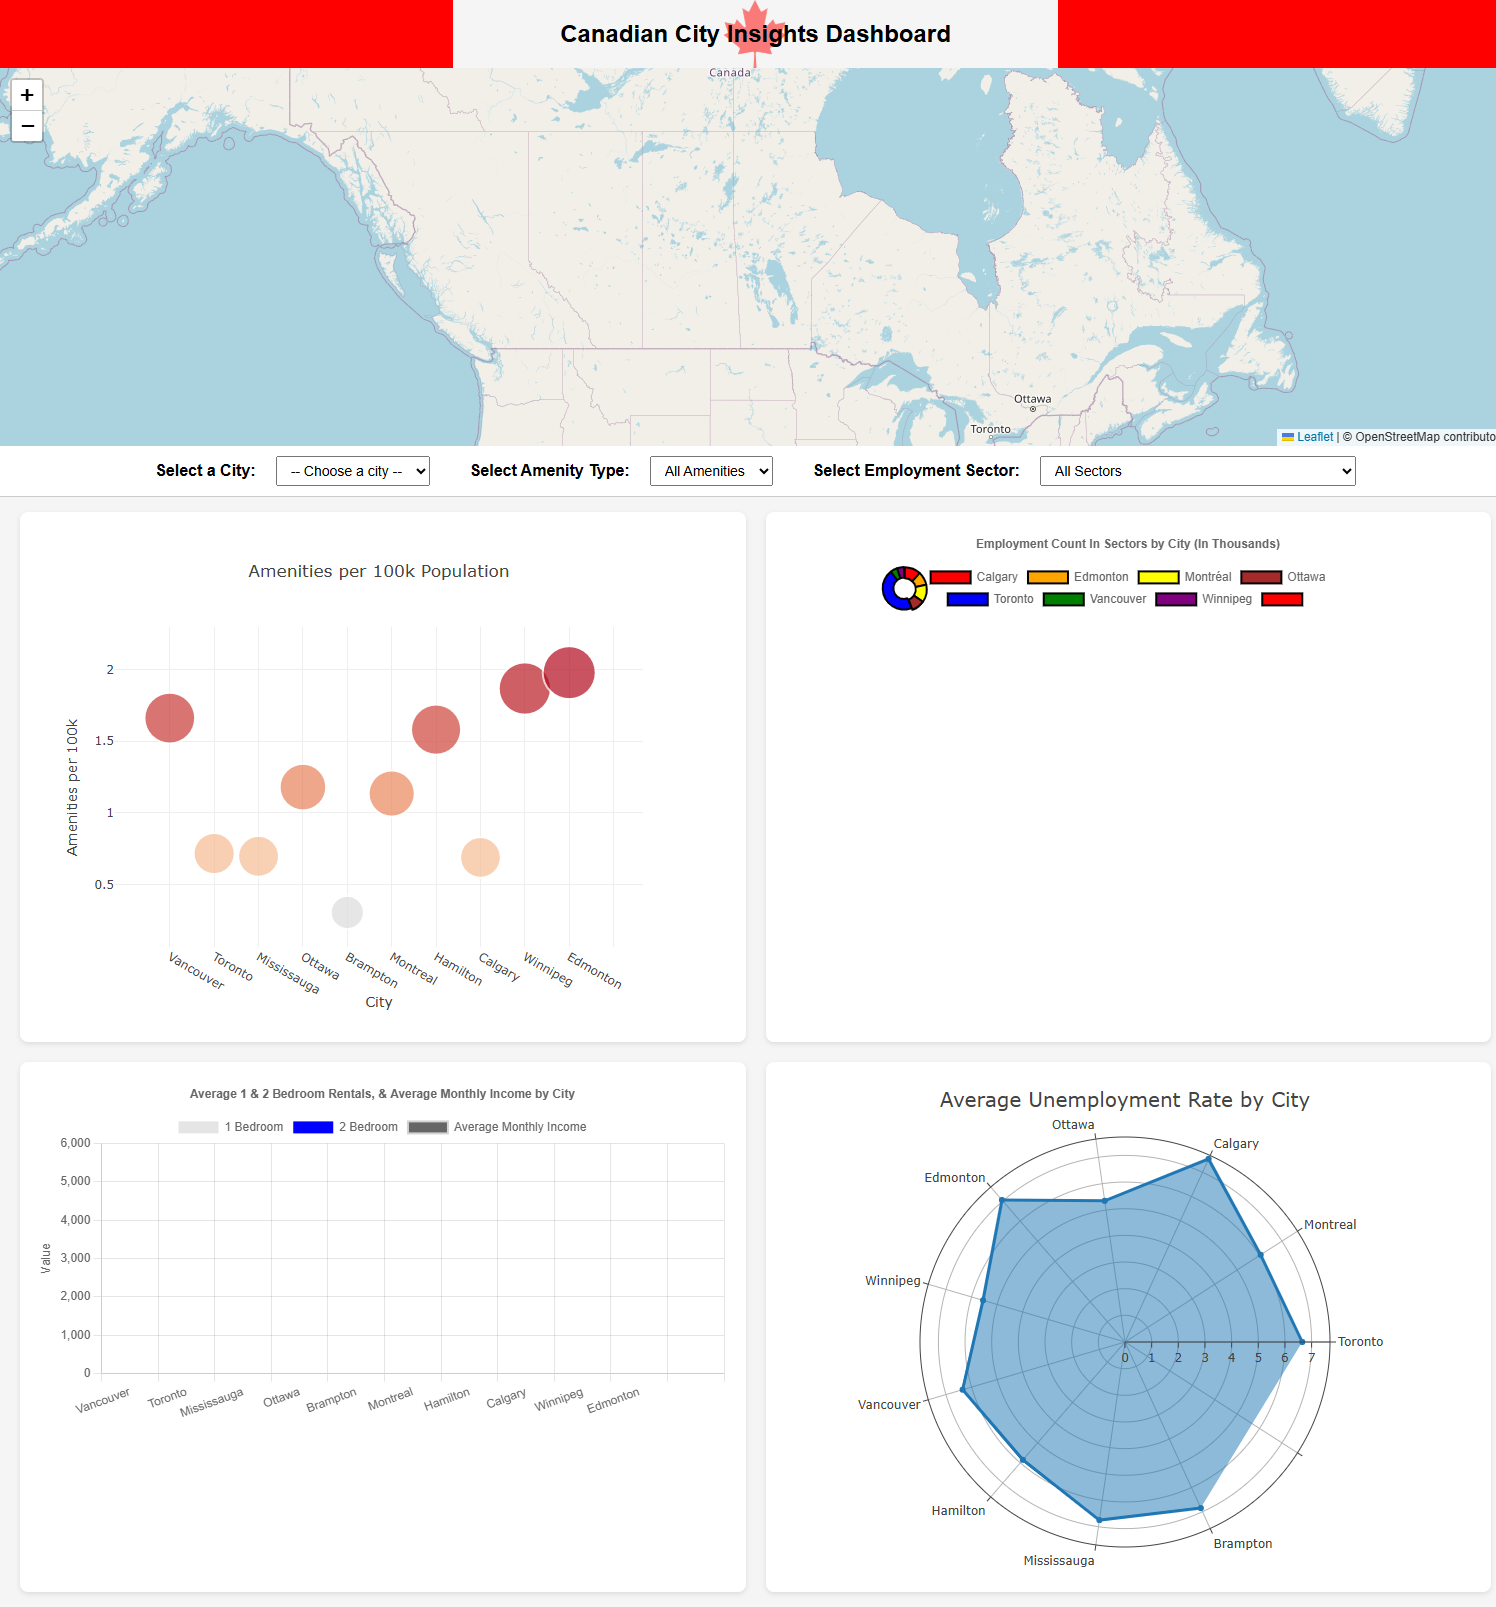
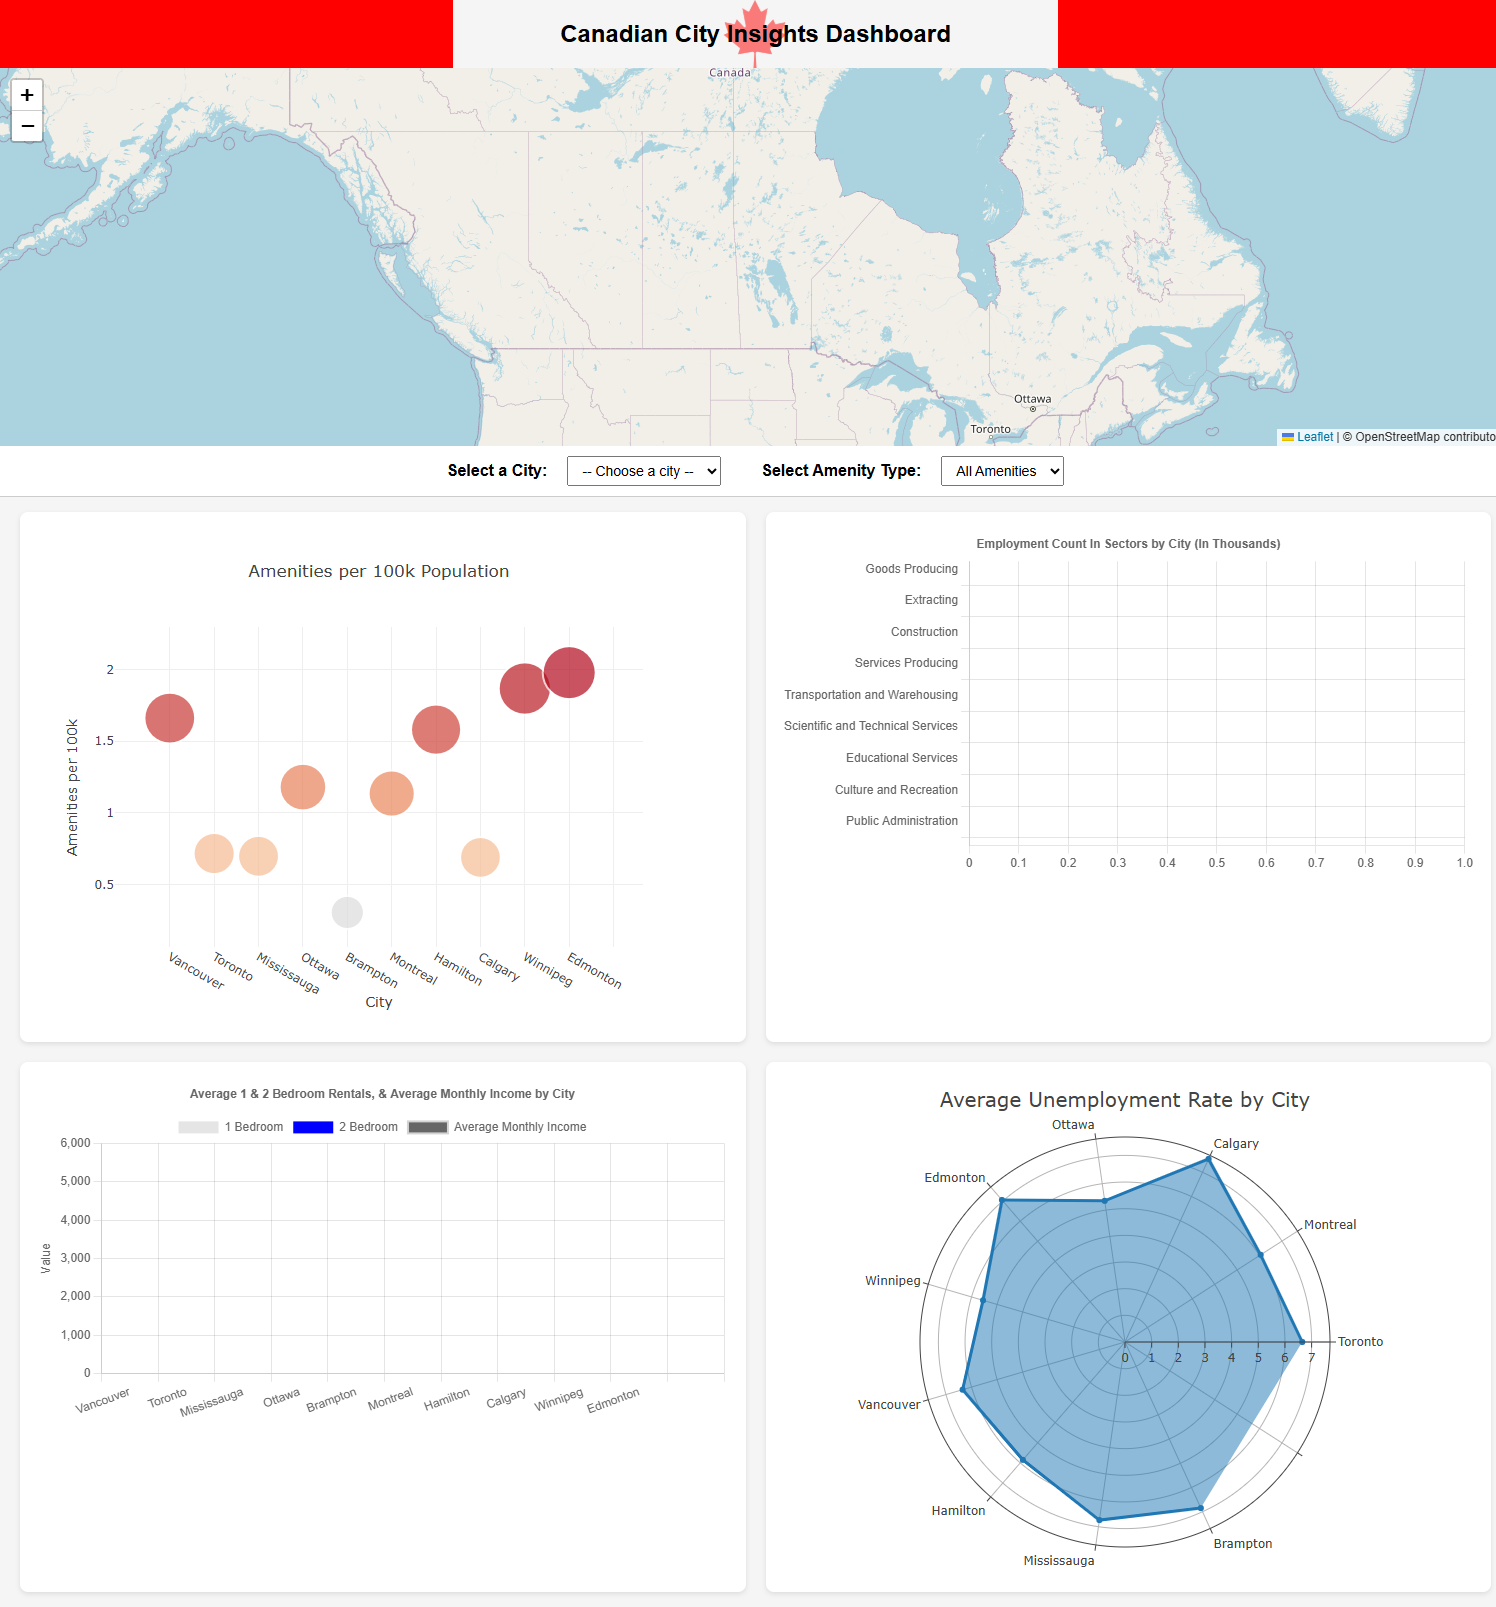
fixed the deploy issue & updated Readme

diff --git a/static/js/horizontal_bar_chart.js b/static/js/horizontal_bar_chart.js
@@ -11,7 +11,7 @@ let vancouverData = [];
 let winnipegData = [];
 
 async function fetchEmploymentData() {
-    const response = await fetch("../../Output/employment_sectors_by_city_df.csv");
+    const response = await fetch("static/data/employment_sectors_by_city_df.csv");
     const csvText = await response.text();
     const rows = csvText.split("\n");
     cityData = rows.map(row => row.split(","));

diff --git a/README.md b/README.md
@@ -40,7 +40,7 @@ Access the live dashboard here: [Canadian City Insights Dashboard](https://batuh
 
 - 📍 **Interactive Map:** Select a city to view amenities (hospitals, schools, supermarkets)
 - 📊 **Bubble Chart:** Visualize the distribution of amenities per 100k population by city
-- 📈 **Single Bar Chart:** Select a city to see employment distribution across 18 sectors
+- 📈 **Horizontal Bar Chart:** Select a city to see employment distribution across 18 sectors
 - 📉 **Radar Chart:** Compare unemployment rates across cities
 - 🔄 **Dropdown Selections:** Dynamic updates for maps and charts
 
@@ -85,7 +85,7 @@ CANADIAN-CITY-INSIGHTS/
 │   ├── js/
 │   │   ├── bar_line_chart.js
 │   │   ├── bubble_chart.js
-│   │   ├── doughnut_chart.js
+│   │   ├── horizontal_bar_chart.js
 │   │   ├── map.js
 │   │   ├── radar_chart.js
 │   ├── img/
